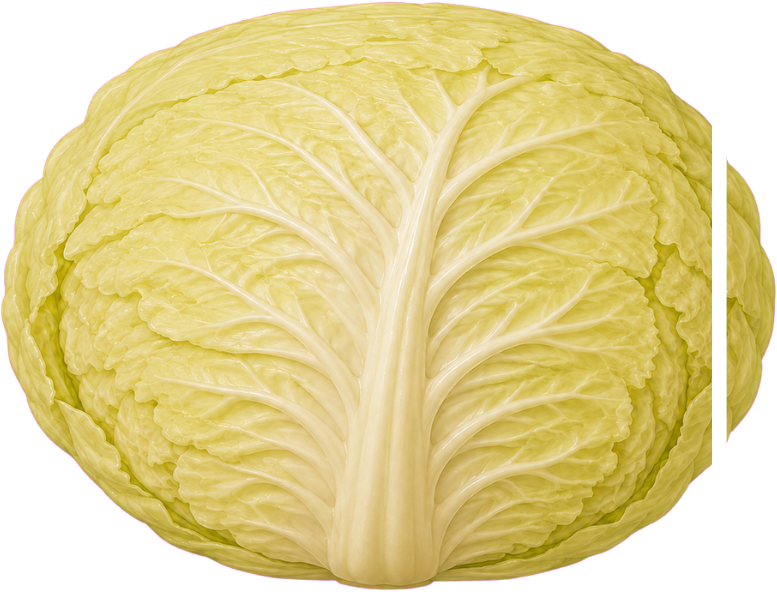
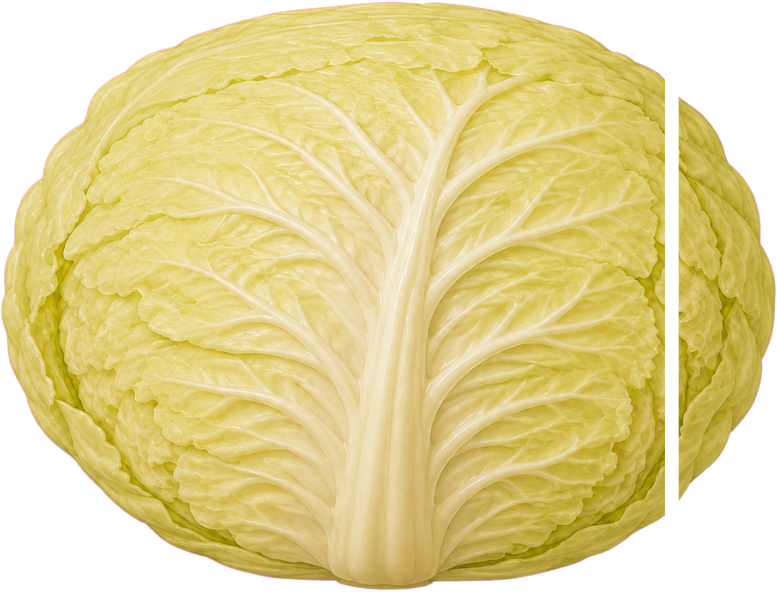
양배추 썰기 횟수 축소

Changed region(s): [[0.834, 0.1216, 0.9575, 0.8818]]

diff --git a/tools/day4-logic-smoke.html b/tools/day4-logic-smoke.html
@@ -77,15 +77,16 @@ try{
   assert(CUT_FEEL_CONFIG.hitZoneScale===.7&&CUT_FEEL_CONFIG.travelSpeedScale===1.15&&CUT_FEEL_CONFIG.doubleTapWindow===.35&&CUT_FEEL_CONFIG.pathLeadInFallback===12&&CUT_FEEL_CONFIG.pathRecoveryMs===340&&CUT_FEEL_CONFIG.flowVisualSettleMs===180&&CUT_FEEL_CONFIG.completeDelayMs===620&&CUT_FEEL_CONFIG.startCountdownSeconds===3&&CUT_FEEL_CONFIG.startCountdownStepSeconds===.5&&CUT_FEEL_CONFIG.startSignalMs===300,"E1 tighter, faster, continuous path timing config");
   assert(Object.entries(CUT_HIT_TOLERANCE).map(([ingredient,tolerance])=>`${ingredient}:${tolerance}`).join(",")==="radish:3.4,fishCake:3.4,cabbage:3.1,chicken:3.5,greenOnion:3.5,kimchi:3.3,tofu:4.2"&&CUT_HORIZONTAL_HIT_TOLERANCE.fishCake===3.4,"E1 ingredient-specific tuned hit boxes");
   assert(DAY_PREP_MINI_CONFIG.cutRadish.hitTolerance===CUT_HIT_TOLERANCE.radish&&DAY_PREP_MINI_CONFIG.cutFishCake.hitTolerance===CUT_HIT_TOLERANCE.fishCake&&DAY_PREP_MINI_CONFIG.cutTofuKimchi.hitTolerance===CUT_HIT_TOLERANCE.kimchi&&DAY_PREP_MINI_CONFIG.cutPancakeKimchi.hitTolerance===CUT_HIT_TOLERANCE.kimchi&&DAY_PREP_MINI_CONFIG.cutSkewerChicken.hitTolerance===CUT_HIT_TOLERANCE.chicken&&DAY_PREP_MINI_CONFIG.cutSkewerGreenOnion.hitTolerance===CUT_HIT_TOLERANCE.greenOnion&&DAY_PREP_MINI_CONFIG.cutTofuBlock.hitTolerance===CUT_HIT_TOLERANCE.tofu,"E1 all shared cut tasks use ingredient hit-box tuning");
-  assert(TTEOKBOKKI_CUT_SEQUENCE.map(item=>item.requiredPieces).join(",")==="12,7,4"&&TTEOKBOKKI_CUT_SEQUENCE.map(item=>item.travelSpeed).join(",")==="16,19,22"&&TTEOKBOKKI_CUT_SEQUENCE.at(-1).horizontalLastCut,"E1 slows the twelve-cut cabbage and speeds up the four-cut fish cake");
+  assert(TTEOKBOKKI_CUT_SEQUENCE.map(item=>item.requiredPieces).join(",")==="6,7,4"&&TTEOKBOKKI_CUT_SEQUENCE.map(item=>item.travelSpeed).join(",")==="16,19,22"&&TTEOKBOKKI_CUT_SEQUENCE.at(-1).horizontalLastCut,"E1 uses six cabbage cuts and speeds up the four-cut fish cake");
   assert(TTEOKBOKKI_CUT_SEQUENCE.map(item=>item.hitTolerance).join(",")==="3.1,3.5,3.4"&&TTEOKBOKKI_CUT_SEQUENCE.at(-1).horizontalHitTolerance===3.4,"E1 tteokbokki ingredients use tuned hit boxes");
 
-  dayPrepAssets.tteokCabbage0={src:"assets/minigame/E1/cabbage-0.png"};
-  dayPrepAssets.tteokCabbage1={src:"assets/minigame/E1/cabbage-1.png"};
+  Array.from({length:7},(_,index)=>{
+    dayPrepAssets[`tteokCabbage${index}`]={src:`assets/minigame/E1/cabbage-${index}.png`};
+  });
   state.mini={context:{mode:"dayPrep"},complete:false,data:{}};
-  startCuttingMinigame({taskId:"smokeCut",ingredient:"cabbage",assetPrefix:"tteokCabbage",requiredHits:12,hitTolerance:CUT_HIT_TOLERANCE.cabbage,travelSpeed:16,title:"E1 smoke",description:"smoke"});
+  startCuttingMinigame({taskId:"smokeCut",ingredient:"cabbage",assetPrefix:"tteokCabbage",requiredHits:6,hitTolerance:CUT_HIT_TOLERANCE.cabbage,travelSpeed:16,title:"E1 smoke",description:"smoke"});
   const cabbageMini=state.mini,cabbageStart=cabbageMini.data.knifeX;
-  assert(Math.abs(cabbageMini.data.hitTolerance-CUT_HIT_TOLERANCE.cabbage*.7)<1e-9&&Math.abs(cabbageMini.data.travelSpeed-18.4)<1e-9,"E1 applies the tighter hit zone while keeping twelve-cut cabbage at the slower 18.4 speed");
+  assert(Math.abs(cabbageMini.data.hitTolerance-CUT_HIT_TOLERANCE.cabbage*.7)<1e-9&&Math.abs(cabbageMini.data.travelSpeed-18.4)<1e-9,"E1 applies the tighter hit zone while keeping six-cut cabbage at the slower 18.4 speed");
   timingCutAction();
   assert(cabbageMini.data.phase==="countdown"&&cabbageMini.data.inputLocked&&cabbageMini.data.successes===0&&dom.miniContent.querySelector("#cutStartCountdown strong").textContent==="3!"&&dom.miniContent.querySelector("#dayPrepAction").disabled,"E1 countdown locks movement and input at three");
   MINI_ENGINES.timing.update(cabbageMini,.51);
@@ -94,36 +95,41 @@ try{
   assert(dom.miniContent.querySelector("#cutStartCountdown strong").textContent==="1!","E1 fast countdown advances to one");
   MINI_ENGINES.timing.update(cabbageMini,.51);
   assert(cabbageMini.data.phase==="ready"&&!cabbageMini.data.inputLocked&&!dom.miniContent.querySelector("#dayPrepAction").disabled&&dom.miniContent.querySelector("#cutStartCountdown.go strong").textContent==="시작!","E1 starts only after the three-two-one countdown");
-  assert(Math.abs((cabbageStart-suppliedCutPosition("cabbage",0,12))-(suppliedCutPosition("cabbage",0,12)-suppliedCutPosition("cabbage",1,12)))<.01,"E1 first beat uses the same travel distance as the following supplied cut gap");
+  assert(Math.abs((cabbageStart-suppliedCutPosition("cabbage",0,6))-(suppliedCutPosition("cabbage",0,6)-suppliedCutPosition("cabbage",1,6)))<.01,"E1 first beat uses the same travel distance as the following supplied cut gap");
   const waitingKnifeX=dom.miniContent.querySelector("#prepWorkObject").style.getPropertyValue("--knife-x");
   const movingMarker=dom.miniContent.querySelector("#dayPrepMarker"),markerStart=movingMarker.style.left;
   advanceTimingKnife(cabbageMini,.1);
   assert(cabbageMini.data.knifeX<cabbageStart&&movingMarker.style.left!==markerStart,"E1 bottom marker advances in one direction at the configured constant speed");
-  assert(waitingKnifeX===`${suppliedCutPosition("cabbage",0,12)}%`&&dom.miniContent.querySelector("#prepWorkObject").style.getPropertyValue("--knife-x")===waitingKnifeX,"E1 knife waits on the next cut line while the bottom marker moves");
-  cabbageMini.data.knifeX=suppliedCutPosition("cabbage",0,12);
+  assert(waitingKnifeX===`${suppliedCutPosition("cabbage",0,6)}%`&&dom.miniContent.querySelector("#prepWorkObject").style.getPropertyValue("--knife-x")===waitingKnifeX,"E1 knife waits on the next cut line while the bottom marker moves");
+  cabbageMini.data.knifeX=suppliedCutPosition("cabbage",0,6);
   const pathBar=dom.miniContent.querySelector(".cut-path-timing");
   syncTimingKnife(cabbageMini.data);
   const pathZone=pathBar.querySelector(".prep-success-zone"),pathMarker=pathBar.querySelector("#dayPrepMarker");
   const barAt=()=>parseFloat(pathMarker.style.left);
   const zoneCenter=parseFloat(pathZone.style.left)+parseFloat(pathZone.style.width)/2;
-  assert(pathBar.querySelectorAll(".prep-success-zone").length===12&&pathBar.querySelectorAll(".prep-perfect-zone").length===12&&pathZone.classList.contains("active")&&Math.abs(zoneCenter-barAt())<.2,"E1 shows every cut hit zone up front and centers the active zone on the marker");
+  assert(pathBar.querySelectorAll(".prep-success-zone").length===6&&pathBar.querySelectorAll(".prep-perfect-zone").length===6&&pathZone.classList.contains("active")&&Math.abs(zoneCenter-barAt())<.2,"E1 shows every cut hit zone up front and centers the active zone on the marker");
   /* 바는 "칼이 지나는 구간"을 폭 전체로 폅니다 — 재료가 도마에서 차지한 만큼만
      쓰던 예전 방식은 포인터가 좁게 움직여 속도감이 없었습니다.
      ⚠ 판정은 재료 좌표 그대로라, 여기 숫자가 바뀌어도 절단선·타이밍은 그대로입니다. */
   const zoneWidthOnBar=parseFloat(pathZone.style.width);
   cabbageMini.data.knifeX=cabbageMini.data.startKnifeX;syncTimingKnife(cabbageMini.data);
   const barStart=barAt();
-  cabbageMini.data.knifeX=suppliedCutPosition("cabbage",11,12)-cabbageMini.data.hitTolerance;syncTimingKnife(cabbageMini.data);
+  cabbageMini.data.knifeX=suppliedCutPosition("cabbage",5,6)-cabbageMini.data.hitTolerance;syncTimingKnife(cabbageMini.data);
   const barEnd=barAt();
   assert(barStart>96&&barEnd<4&&zoneWidthOnBar>4,"E1 bottom bar stretches the whole knife travel across its full width");
-  cabbageMini.data.knifeX=suppliedCutPosition("cabbage",0,12);syncTimingKnife(cabbageMini.data);
+  cabbageMini.data.knifeX=suppliedCutPosition("cabbage",0,6);syncTimingKnife(cabbageMini.data);
   assert(cutPathGrade(cabbageMini.data)==="perfect","E1 judgment is measured from the knife's actual cut-line distance");
   timingCutAction();
-  assert(cabbageMini.data.successes===1&&cabbageMini.data.phase==="ready"&&!cabbageMini.data.inputLocked&&dom.miniContent.querySelector(".cut-board.cut-perfect")&&!dom.miniContent.querySelector(".cut-pile")&&dom.miniContent.querySelectorAll("#prepWorkObject .cut-line").length===11&&dom.miniContent.querySelectorAll(".cut-path-timing .prep-success-zone").length===11&&!dom.miniContent.querySelector("#prepWorkObject .cut-line.done")&&dom.miniContent.querySelector("#prepWorkObject .prep-object-asset").getAttribute("src")==="assets/minigame/E1/cabbage-1.png"&&dom.miniContent.querySelector(".cut-path-timing"),"E1 immediately flows to the next hit zone while the cut effect settles");
+  assert(cabbageMini.data.successes===1&&cabbageMini.data.phase==="ready"&&!cabbageMini.data.inputLocked&&dom.miniContent.querySelector(".cut-board.cut-perfect")&&!dom.miniContent.querySelector(".cut-pile")&&dom.miniContent.querySelectorAll("#prepWorkObject .cut-line").length===5&&dom.miniContent.querySelectorAll(".cut-path-timing .prep-success-zone").length===5&&!dom.miniContent.querySelector("#prepWorkObject .cut-line.done")&&dom.miniContent.querySelector("#prepWorkObject .prep-object-asset").getAttribute("src")==="assets/minigame/E1/cabbage-1.png"&&dom.miniContent.querySelector(".cut-path-timing"),"E1 immediately flows to the next hit zone while the cut effect settles");
   const tteokCabbage=TTEOKBOKKI_CUT_SEQUENCE.find(item=>item.ingredientId==="cabbage");
-  const cabbageStages=Array.from({length:13},(_,successes)=>cutAssetStage({ingredient:"cabbage",total:12,successes})).join(",");
-  assert(CUT_POSITION_PERCENTAGES.cabbage.join(",")==="92.5,84.4,76.1,68.4,61.1,53.6,45.8,37.9,30.4,22.1,15,7.5"&&CUT_ASSET_STAGE_MAX.cabbage===12,"E1 cabbage uses all twelve supplied cut gaps");
-  assert(cabbageStages==="0,1,2,3,4,5,6,7,8,9,10,11,12"&&tteokCabbage.progressSprites.length===13&&DAY_PREP_ASSET_PATHS.tteokCabbage12==="assets/minigame/E1/cabbage-12.png","E1 cabbage maps twelve cuts one-to-one onto thirteen progress assets");
+  const cabbageStages=Array.from({length:7},(_,successes)=>cutAssetStage({ingredient:"cabbage",total:6,successes})).join(",");
+  assert(CUT_POSITION_PERCENTAGES.cabbage.join(",")==="86.4,71.8,57.8,43.5,29.3,15.7"&&CUT_ASSET_STAGE_MAX.cabbage===6,"E1 cabbage uses the six wide supplied cut gaps");
+  assert(cabbageStages==="0,1,2,3,4,5,6"&&tteokCabbage.progressSprites.length===7&&DAY_PREP_ASSET_PATHS.tteokCabbage6==="assets/minigame/E1/cabbage-6.png"&&!DAY_PREP_ASSET_PATHS.tteokCabbage7,"E1 cabbage maps six cuts one-to-one onto seven progress assets");
+  while(cabbageMini.data.successes<cabbageMini.data.total){
+    cabbageMini.data.knifeX=timingCutTarget(cabbageMini.data).value;
+    timingCutAction();
+  }
+  assert(cabbageMini.data.successes===6&&cabbageMini.data.phase==="complete"&&dom.miniTimer.textContent==="6 / 6"&&dom.miniContent.querySelectorAll("#prepWorkObject .cut-line").length===0&&dom.miniContent.querySelectorAll(".cut-path-timing .prep-success-zone").length===0&&dom.miniContent.querySelector("#prepWorkObject .prep-object-asset").getAttribute("src")==="assets/minigame/E1/cabbage-6.png","E1 cabbage completes on the sixth cut and displays the final retained frame");
 
   state.mini={context:{mode:"dayPrep"},complete:false,data:{}};
   startCuttingMinigame({taskId:"smokeMiss",ingredient:"radish",requiredHits:2,hitTolerance:CUT_HIT_TOLERANCE.radish,travelSpeed:22,title:"E1 miss smoke",description:"smoke"});

diff --git a/day4-prep-data.js b/day4-prep-data.js
@@ -4,7 +4,7 @@
 // 떡볶이 재료 칼질. 예전에는 셋을 한 화면에서 이어서 썰었지만
 // 지금은 재료마다 별도의 준비 작업이라 taskId 로 찾아 씁니다.
 const TTEOKBOKKI_CUT_SEQUENCE=Object.freeze([
-  Object.freeze({taskId:"cutTteokbokkiCabbage",ingredientId:"cabbage",assetPrefix:"tteokCabbage",displayName:"양배추",requiredPieces:12,hitTolerance:CUT_HIT_TOLERANCE.cabbage,travelSpeed:16,progressSprites:Object.freeze(Array.from({length:13},(_,index)=>`assets/minigame/E1/cabbage-${index}.png`))}),
+  Object.freeze({taskId:"cutTteokbokkiCabbage",ingredientId:"cabbage",assetPrefix:"tteokCabbage",displayName:"양배추",requiredPieces:6,hitTolerance:CUT_HIT_TOLERANCE.cabbage,travelSpeed:16,progressSprites:Object.freeze(Array.from({length:7},(_,index)=>`assets/minigame/E1/cabbage-${index}.png`))}),
   Object.freeze({taskId:"cutTteokbokkiGreenOnion",ingredientId:"greenOnion",assetPrefix:"tteokGreenOnion",displayName:"대파",requiredPieces:7,hitTolerance:CUT_HIT_TOLERANCE.greenOnion,travelSpeed:19,progressSprites:Object.freeze(Array.from({length:8},(_,index)=>`assets/minigame/E1/green-onion-${index}.png`))}),
   Object.freeze({taskId:"cutTteokbokkiFishCake",ingredientId:"fishCake",assetPrefix:"tteokFishCake",displayName:"어묵",requiredPieces:4,hitTolerance:CUT_HIT_TOLERANCE.fishCake,horizontalHitTolerance:CUT_HORIZONTAL_HIT_TOLERANCE.fishCake,travelSpeed:22,horizontalLastCut:true,progressSprites:Object.freeze(Array.from({length:5},(_,index)=>`assets/minigame/E1/fish-cake-${index}.png`))})
 ]);

diff --git a/engine-e1-timing-cut.js b/engine-e1-timing-cut.js
@@ -110,7 +110,7 @@ const CUT_INGREDIENT_LABEL=Object.freeze({radish:"무",fishCake:"어묵",kimchi:
 const CUT_POSITION_PERCENTAGES=Object.freeze({
   radish:Object.freeze([89.8,79,67.8,56.5,45.7,34.1,22.3]),
   fishCake:Object.freeze([74.3,51.3,26.7]),
-  cabbage:Object.freeze([92.5,84.4,76.1,68.4,61.1,53.6,45.8,37.9,30.4,22.1,15,7.5]),
+  cabbage:Object.freeze([86.4,71.8,57.8,43.5,29.3,15.7]),
   chicken:Object.freeze([91.4,83.4,75,65.8,55.9,46.7,38.3,30,21.4,13.1,6.5]),
   greenOnion:Object.freeze([87.7,76.3,63.8,52.6,39,26.6,15.2]),
   kimchi:Object.freeze([89.6,79.9,70.3,60.8,51.7,42.2,32.7,22.9,14.3]),
@@ -119,7 +119,7 @@ const CUT_POSITION_PERCENTAGES=Object.freeze({
 
 // 새 절단 횟수가 기존 진행 스프라이트보다 많아도 그림이 중간에 끊기지 않게
 // 완료 비율을 현재 보유한 마지막 스프라이트 단계에 비례시킵니다.
-const CUT_ASSET_STAGE_MAX=Object.freeze({radish:7,fishCake:4,cabbage:12,chicken:11,greenOnion:7,kimchi:9,tofu:6});
+const CUT_ASSET_STAGE_MAX=Object.freeze({radish:7,fishCake:4,cabbage:6,chicken:11,greenOnion:7,kimchi:9,tofu:6});
 
 function cutAssetStage(data,completed=data.successes||0){
   const max=data.assetStageMax??CUT_ASSET_STAGE_MAX[data.ingredient]??data.total;

diff --git a/tools/e1-ingredient-visual-smoke.html b/tools/e1-ingredient-visual-smoke.html
@@ -37,7 +37,7 @@
     const configs={
       radish:{root:"../assets/minigame/E1/radish-",label:"무",total:7,assetMax:7,positions:[89.8,79,67.8,56.5,45.7,34.1,22.3]},
       fishCake:{root:"../assets/minigame/E1/fish-cake-",label:"어묵",total:4,assetMax:4,positions:[74.3,51.3,26.7],horizontalLastCut:true},
-      cabbage:{root:"../assets/minigame/E1/cabbage-",label:"양배추",total:12,assetMax:12,positions:[92.5,84.4,76.1,68.4,61.1,53.6,45.8,37.9,30.4,22.1,15,7.5]},
+      cabbage:{root:"../assets/minigame/E1/cabbage-",label:"양배추",total:6,assetMax:6,positions:[86.4,71.8,57.8,43.5,29.3,15.7]},
       chicken:{root:"../assets/minigame/E1/chicken-",label:"닭",total:11,assetMax:11,positions:[91.4,83.4,75,65.8,55.9,46.7,38.3,30,21.4,13.1,6.5]},
       greenOnion:{root:"../assets/minigame/E1/green-onion-",label:"대파",total:7,assetMax:7,positions:[87.7,76.3,63.8,52.6,39,26.6,15.2]},
       kimchi:{root:"../assets/minigame/E1/kimchi-",label:"김치",total:9,assetMax:9,positions:[89.6,79.9,70.3,60.8,51.7,42.2,32.7,22.9,14.3]},

diff --git a/tools/e1-cut-screen-visual-smoke.html b/tools/e1-cut-screen-visual-smoke.html
@@ -81,7 +81,7 @@
     const CASES = {
       radish:{ total:7, label:"무" },
       greenOnion:{ total:7, label:"대파", assetPrefix:"tteokGreenOnion", assetStageMax:7 },
-      cabbage:{ total:12, label:"양배추", assetPrefix:"tteokCabbage", assetStageMax:12 },
+      cabbage:{ total:6, label:"양배추", assetPrefix:"tteokCabbage", assetStageMax:6 },
       chicken:{ total:11, label:"닭고기", requiresDoubleTap:true },
       kimchi:{ total:9, label:"김치" },
       tofu:{ total:6, label:"두부", horizontalLastCut:true },

diff --git a/assets/minigame/E1/README.md b/assets/minigame/E1/README.md
@@ -9,7 +9,7 @@ E1 타이밍 칼질 미니게임의 재료와 칼 이미지는 모두 이 폴더
 - 새로운 재료나 단계를 추가하면 `DAY_PREP_ASSET_PATHS`에도 경로를 등록합니다.
 
 대파는 `green-onion-0.png`부터 `green-onion-7.png`까지 입력 7회와 일대일로 대응합니다.
-떡볶이 양배추는 `cabbage-0.png`부터 `cabbage-12.png`까지 입력 12회와 일대일로 대응합니다.
+떡볶이 양배추는 `cabbage-0.png`부터 `cabbage-6.png`까지 입력 6회와 일대일로 대응합니다.
 닭은 `chicken-0.png`부터 `chicken-11.png`까지 절단 11회와 일대일로 대응하며, 절단선마다 2회 입력합니다.
 김치는 `kimchi-0.png`부터 `kimchi-9.png`까지 입력 9회와 일대일로 대응하며 두부김치와 김치전이 함께 사용합니다.
 무는 `radish-0.png`부터 `radish-7.png`까지 입력 7회와 일대일로 대응합니다.

diff --git a/DAY4_PREP_SETUP.md b/DAY4_PREP_SETUP.md
@@ -4,7 +4,7 @@
 
 Day 4 필수 작업은 다음 순서로 잠깁니다.
 
-1. 양배추(8) → 대파(7) → 어묵(6) 빠른 칼질
+1. 양배추(6) → 대파(7) → 어묵(4) 빠른 칼질
 2. 감자 채칼 10회
 3. 감자 전분 털기 — 봉투를 잡고 좌우·대각선으로 크게 흔들거나(드래그), 새우튀김 빵가루 작업과 같은 랜덤 2키 교차 입력으로 흔듭니다 (횟수는 `day4-prep-data.js` 의 `potatoStarch.requiredPresses`)
 
@@ -16,7 +16,7 @@ Day 4 필수 작업은 다음 순서로 잠깁니다.
 
 ## 선택 이미지 경로
 
-- `assets/minigame/E1/cabbage-0.png` ~ `cabbage-12.png`
+- `assets/minigame/E1/cabbage-0.png` ~ `cabbage-6.png`
 - `assets/minigame/E1/green-onion-0.png` ~ `green-onion-7.png`
 - `assets/minigame/E1/fish-cake-0.png` ~ `fish-cake-4.png`
 - 감자 채칼: `assets/minigame/E2/food_potato_whole_01.png` ~ `_08.png`
